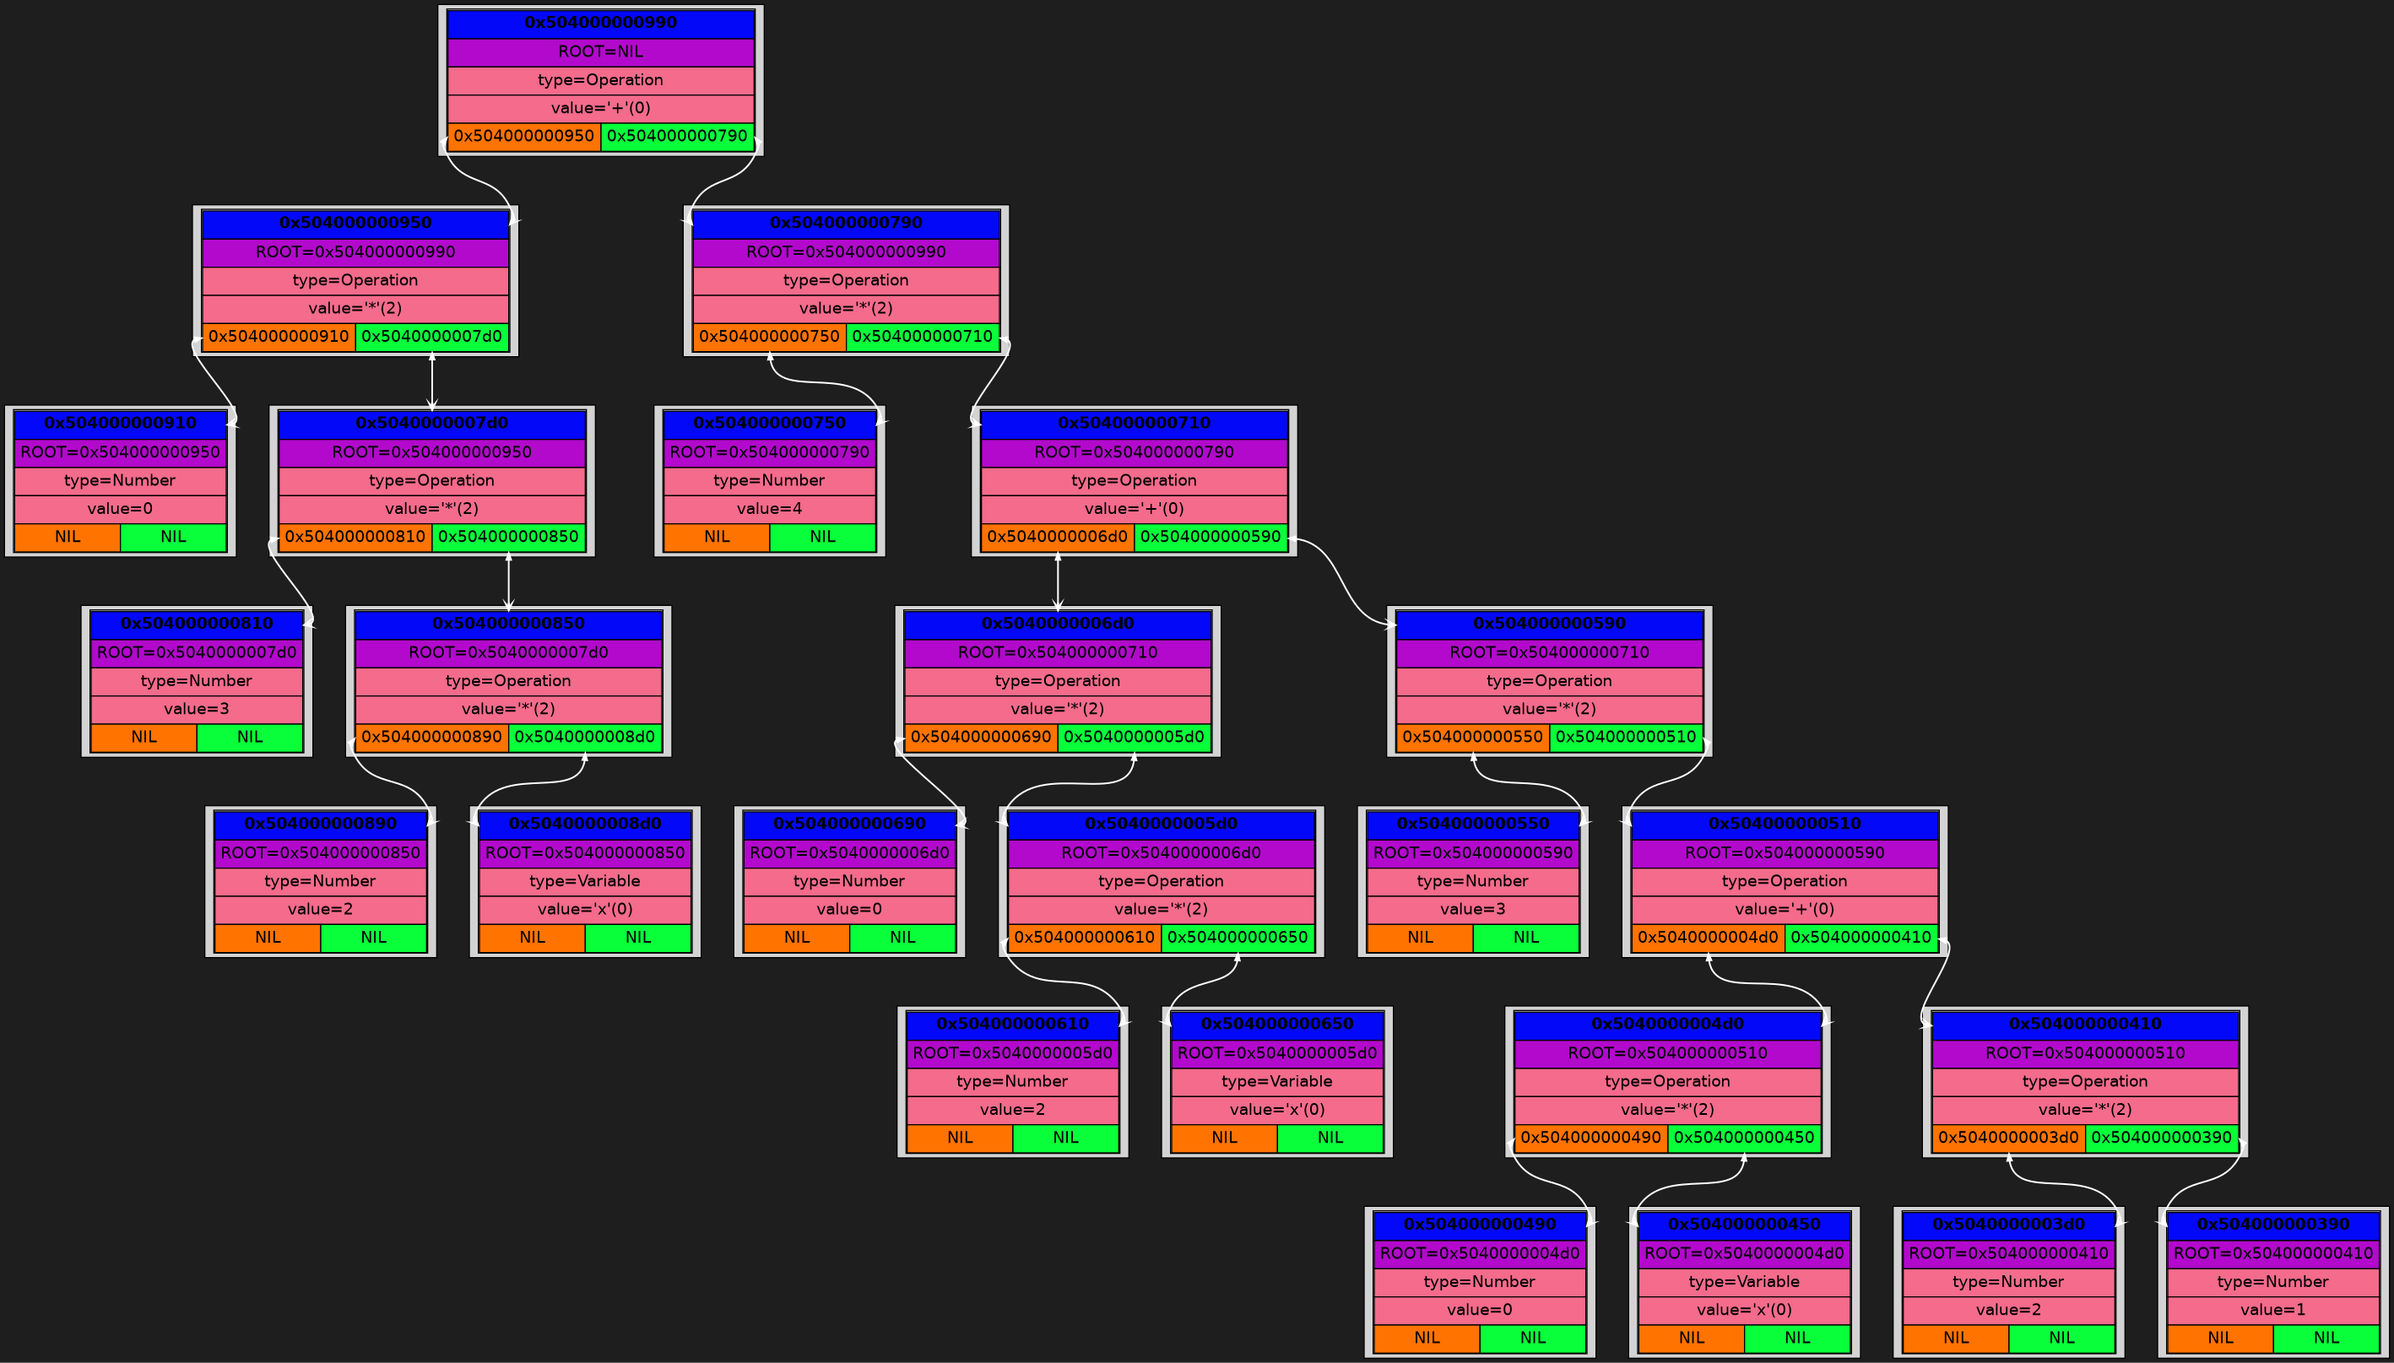
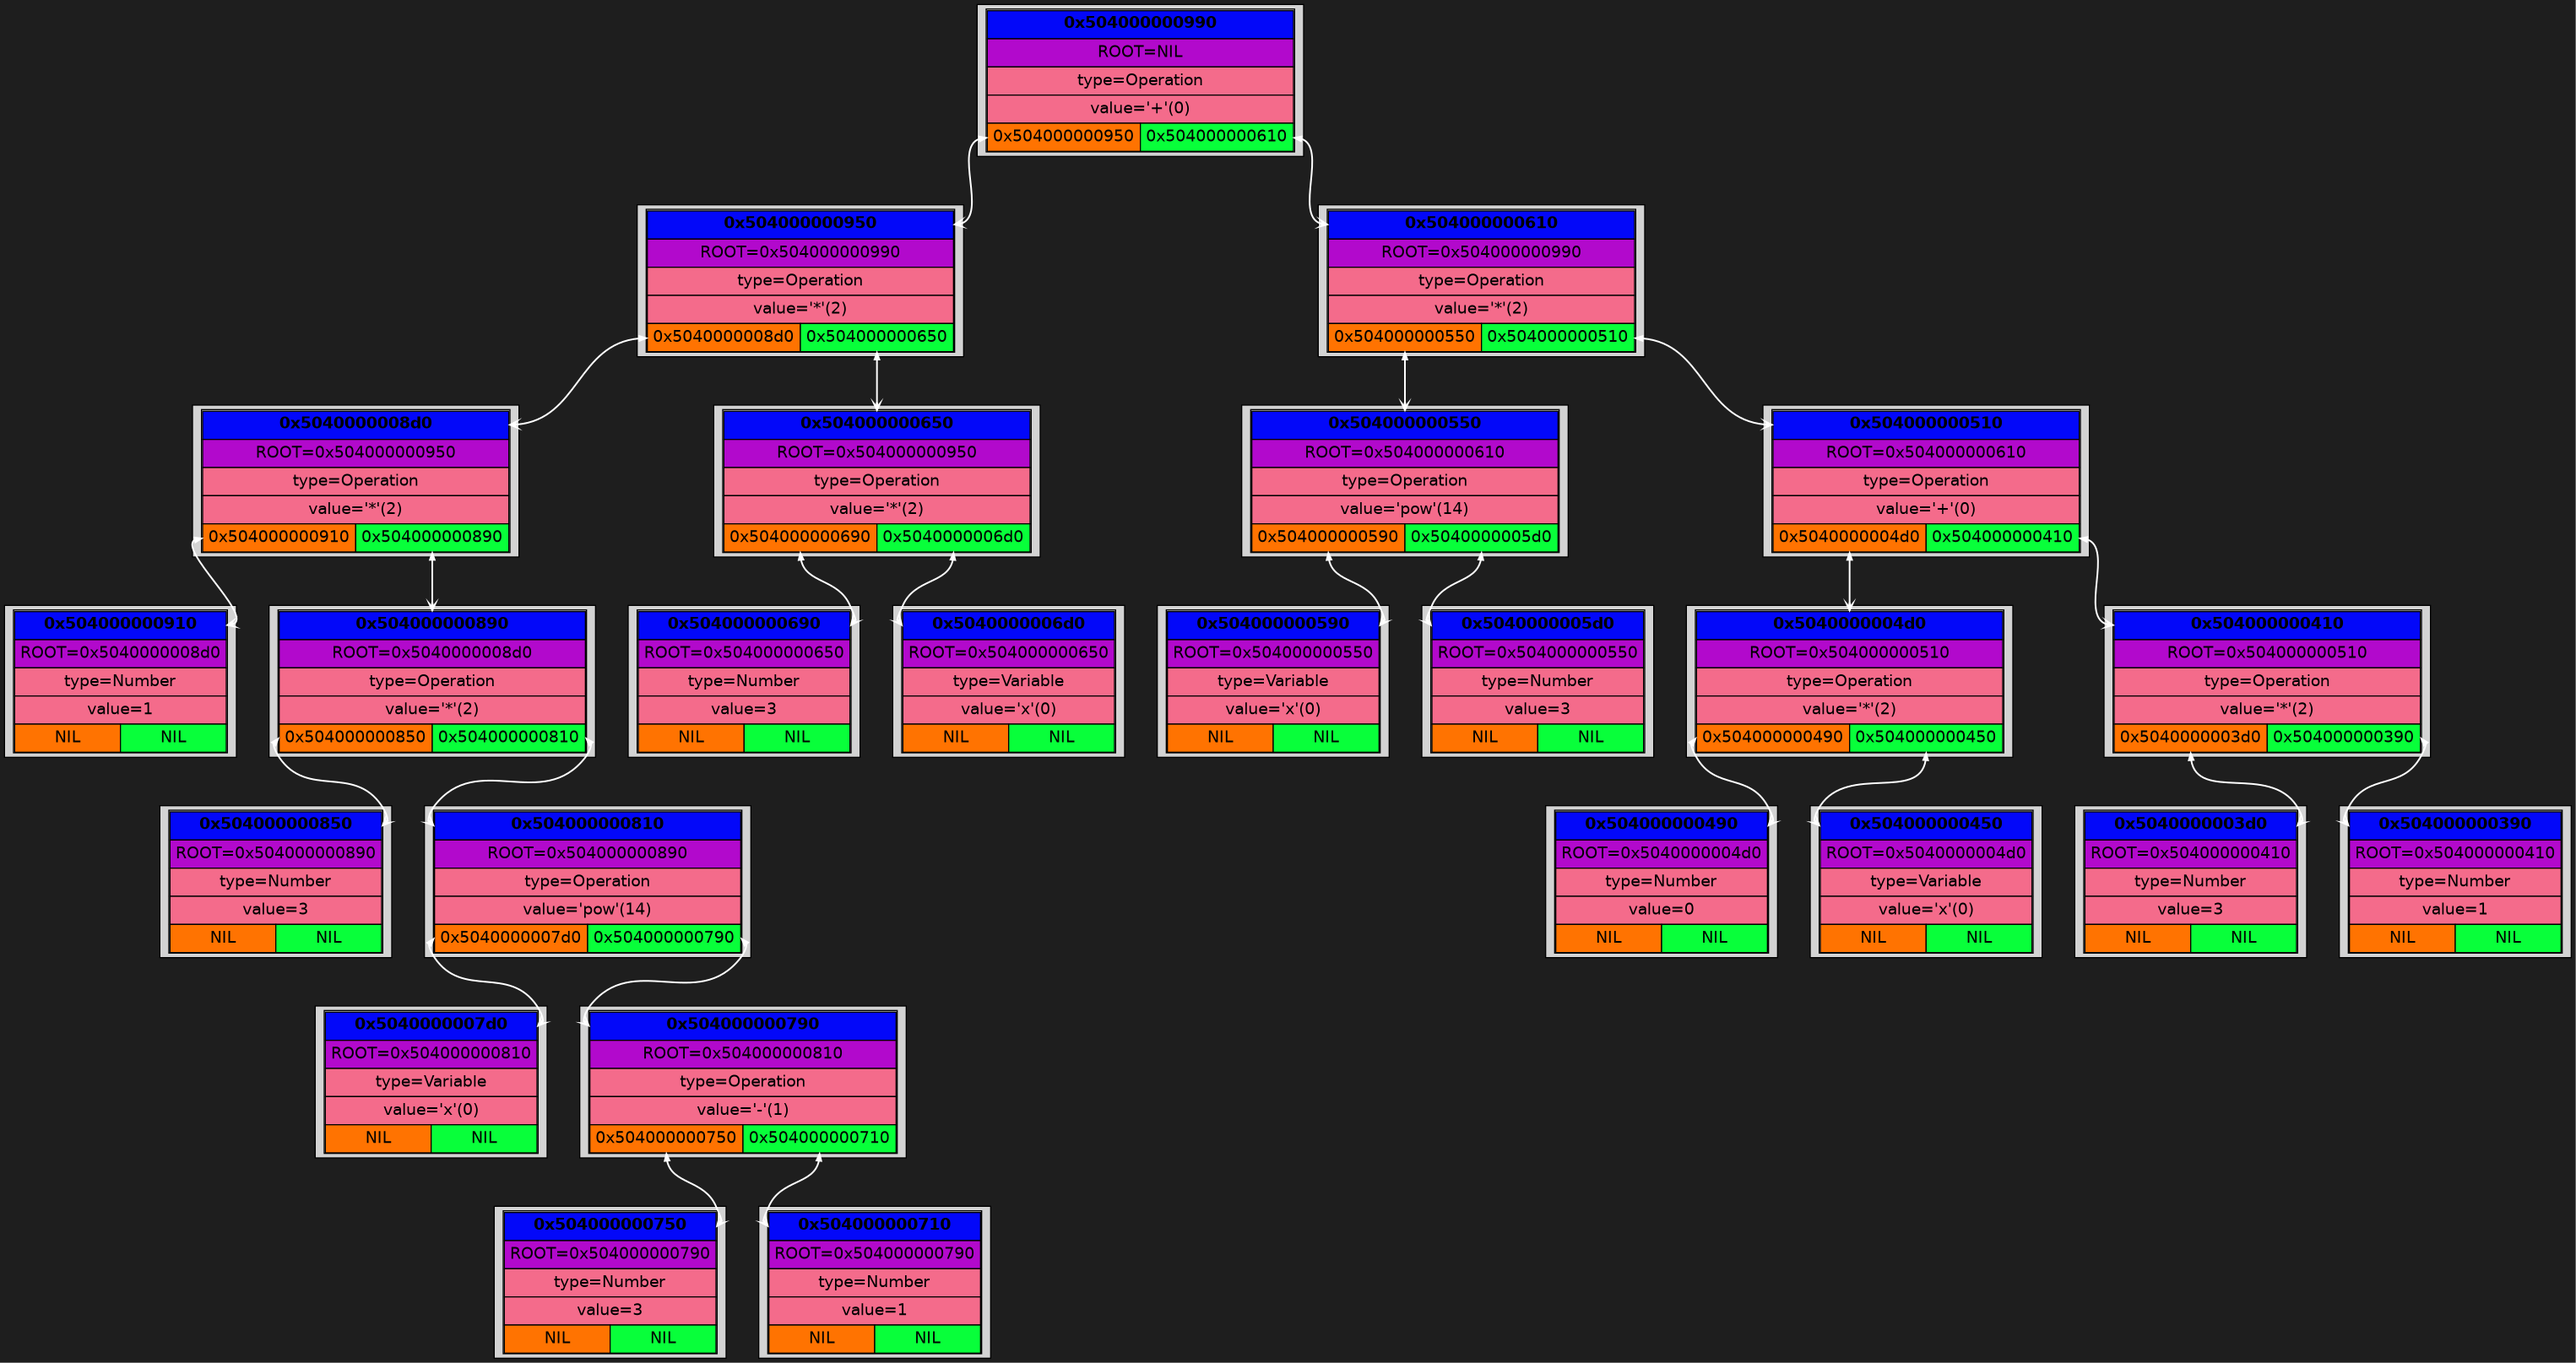
Пофиксил_ошибку_оптимизатора

diff --git a/Dump/dump.html b/Dump/dump.html
@@ -15,11 +15,11 @@ Not enough nodes to create graph
 * Dump *
 Reason: Test
 Tree stats:
- - Size: 18446744073709551614
-<img src=Dump/Image/img2.png width=18446744073709551116px>
+ - Size: 18446744073709551612
+<img src=Dump/Image/img2.png width=18446744073709550616px>
 
 * Dump *
 Reason: Test
 Tree stats:
- - Size: 18446744073709551602
-<img src=Dump/Image/img3.png width=18446744073709548116px>
+ - Size: 18446744073709551606
+<img src=Dump/Image/img3.png width=18446744073709549116px>

diff --git a/Dump/dump.tex b/Dump/dump.tex
@@ -7,22 +7,17 @@
 \usepackage{caption}
 \begin{document}
 \begin{equation}
- 4  \cdot  3  \cdot  2  \cdot  x 
+ x  ^ { 3 } \cdot  3  \cdot  x 
 \end{equation}
 До взятия производной
 
 \begin{equation}
- 4  \cdot  3  \cdot  2  \cdot  x 
+ x  ^ { 3 } \cdot  3  \cdot  x 
 \end{equation}
 До взятия производной
 
 \begin{equation}
- 3  \cdot  2  \cdot  x 
-\end{equation}
-До взятия производной
-
-\begin{equation}
- 2  \cdot  x 
+ 3  \cdot  x 
 \end{equation}
 До взятия производной
 
@@ -32,30 +27,30 @@
 До взятия производной
 
 \begin{equation}
- 2 
-\end{equation}
-После взятия производной
-
-\begin{equation}
- 0  \cdot  x  +  2  \cdot  1 
-\end{equation}
-До взятия производной
-
-\begin{equation}
  3 
 \end{equation}
 После взятия производной
 
 \begin{equation}
- 0  \cdot  2  \cdot  x  +  3  \cdot  0  \cdot  x  +  2  \cdot  1 
+ 0  \cdot  x  +  3  \cdot  1 
 \end{equation}
 До взятия производной
 
 \begin{equation}
- 4 
+ x  ^ { 3 }
+\end{equation}
+До взятия производной
+
+\begin{equation}
+ x 
 \end{equation}
 После взятия производной
 
 \begin{equation}
- 0  \cdot  3  \cdot  2  \cdot  x  +  4  \cdot  0  \cdot  2  \cdot  x  +  3  \cdot  0  \cdot  x  +  2  \cdot  1 
+ 1  \cdot  3  \cdot  x  ^ { 3  -  1 }
+\end{equation}
+После взятия производной
+
+\begin{equation}
+ 1  \cdot  3  \cdot  x  ^ { 3  -  1 } \cdot  3  \cdot  x  +  x  ^ { 3 } \cdot  0  \cdot  x  +  3  \cdot  1 
 \end{equation}

diff --git a/BinTree/Header/BinTreeConfig.h b/BinTree/Header/BinTreeConfig.h
@@ -1,7 +1,7 @@
 #ifndef DIN_TREE_CONFIG_H
 #define BIN_TREE_CONFIG_H
 
-#define DEBUG_MODE
+// #define DEBUG_MODE
 
 // -------------------------------------------------------------------------------------------------------
 /// @brief Расположение dot файла
